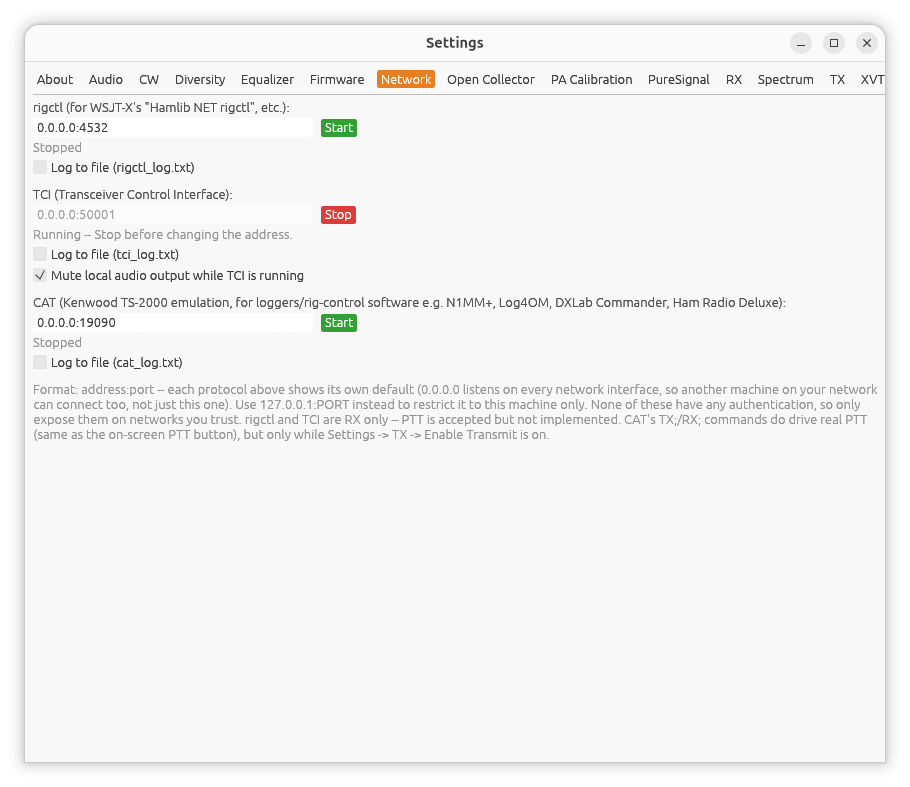
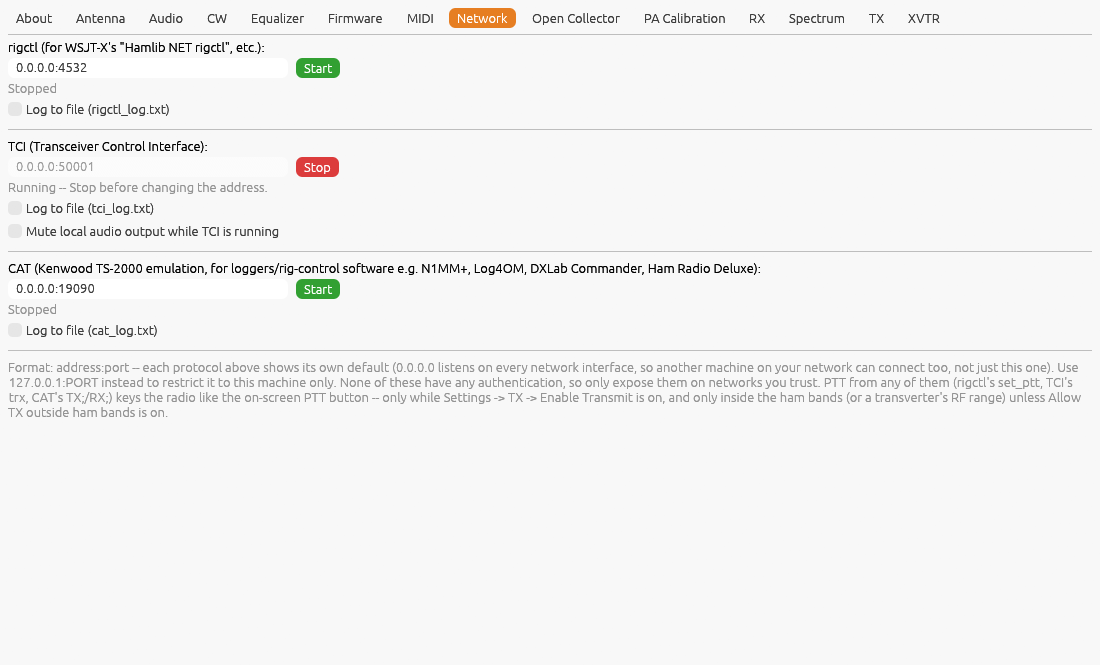
XVTR: scroll to adjust LO Error; manual updates
As requested, Settings -> XVTR's LO Error (Hz) field takes the scroll
wheel: 100 Hz per notch, Alt 10 Hz, Shift 1 kHz (modifiers latched per
wheel event via scroll_tune_input; the Settings page doesn't scroll
while over it). Shared helper scroll_adjust_hz.

Manual:
- Network: PTT commands per server and the TX frequency check;
  frequencies always in the displayed (transverter RF) space; TCI
  reports/sets VFO A and B, dds/if in RF terms; TCI Remote's "OUT OF
  BAND" on microwave bands is its own band plan; servers restore their
  running state on connect (the page said none auto-start).
- Main window: NB/NR menus wording, two sliders in the toggle row.
- XVTR: LO Error scroll steps.
- New screenshots: toggle row (NB/NR menus) and Network tab.

Changed region(s): [[0.0, 0.0, 0.9846, 0.9624], [0.3385, 0.2406, 0.4, 0.3008], [0.3385, 0.1504, 0.4, 0.1805]]

diff --git a/src/main.rs b/src/main.rs
@@ -9486,10 +9486,16 @@ impl eframe::App for HpsdrApp {
                                             {
                                                 settings_changed = true;
                                             }
-                                            if ui
-                                                .add(egui::DragValue::new(&mut xvtr.lo_error_hz))
-                                                .changed()
-                                            {
+                                            let resp = ui.add(egui::DragValue::new(&mut xvtr.lo_error_hz)).on_hover_text(
+                                                "Scroll to adjust -- Alt: 10 Hz, none: 100 Hz, Shift: 1 kHz",
+                                            );
+                                            let scrolled = scroll_adjust_hz(
+                                                ui,
+                                                &resp,
+                                                &mut connected.slider_scroll_accum,
+                                                &mut xvtr.lo_error_hz,
+                                            );
+                                            if resp.changed() || scrolled {
                                                 settings_changed = true;
                                             }
                                             if ui.checkbox(&mut xvtr.disable_pa, "").changed() {
@@ -11769,6 +11775,39 @@ fn scroll_slider_f32_db(
     }
     if changed {
         *gain = 10f32.powf(db / 20.0);
+    }
+    changed
+}
+
+/// Scroll-wheel adjustment of a Hz value while `resp` (its field) is
+/// hovered: 100 Hz per notch, 10 Hz with Alt, 1 kHz with Shift (latched
+/// per wheel event, see scroll_tune_input). Consumes the wheel motion so
+/// the surrounding Settings page doesn't scroll too. Returns true if
+/// `value` changed.
+fn scroll_adjust_hz(ui: &mut egui::Ui, resp: &egui::Response, scroll_accum: &mut f32, value: &mut i64) -> bool {
+    if !resp.hovered() {
+        return false;
+    }
+    let (delta, shift, alt) = scroll_tune_input(ui);
+    ui.input_mut(|i| i.smooth_scroll_delta = egui::Vec2::ZERO);
+    if delta == 0.0 {
+        return false;
+    }
+    const NOTCH: f32 = 100.0;
+    let step: i64 = if alt {
+        10
+    } else if shift {
+        1_000
+    } else {
+        100
+    };
+    *scroll_accum += delta;
+    let mut changed = false;
+    while scroll_accum.abs() >= NOTCH {
+        let sign = scroll_accum.signum();
+        *scroll_accum -= sign * NOTCH;
+        *value += step * sign as i64;
+        changed = true;
     }
     changed
 }

diff --git a/docs/manual/11-settings-network.md b/docs/manual/11-settings-network.md
@@ -13,11 +13,19 @@ would start the server, red when it would stop it. None of the three
 require authentication, so only bind `0.0.0.0` (all interfaces) if you
 trust your local network.
 
-PTT sent through any of these three does drive the radio's real transmit
-(the same `mox` flag as the on-screen **MOX** button and Spacebar
-hold-to-talk), but only while Settings → TX → **Enable Transmit** is on --
-with transmit not armed, a PTT request is accepted (so the client's own
-handshake doesn't fail) but has no receiver on the other end.
+PTT sent through any of these three (rigctl's `set_ptt`, TCI's `trx`,
+CAT's `TX;`/`RX;`) does drive the radio's real transmit (the same `mox`
+flag as the on-screen **MOX** button and Spacebar hold-to-talk), but only
+while Settings → TX → **Enable Transmit** is on -- with transmit not armed,
+a PTT request is accepted (so the client's own handshake doesn't fail) but
+has no receiver on the other end. The same transmit-frequency check as the
+on-screen button applies too: inside the ham bands, or inside the active
+transverter's RF range, unless Settings → TX → **Allow TX outside ham
+bands** is on.
+
+Frequencies are always exchanged in the frequency shown on screen: with a
+[transverter](18-xvtr.md) active, clients see and set its RF frequency
+(e.g. 10489.540 MHz on QO-100), never the radio's IF.
 
 [RIT and XIT](02-main-window.md#transmit-controls) are readable and
 settable through all three servers too, and stay in sync with the
@@ -58,6 +66,12 @@ streaming), both directly and through TCI Remote Compactor.
   actually use).
 - Same **Start**/**Stop**/status/logging behavior as rigctl above (logs to
   `tci_log.txt`).
+- **VFO A and VFO B** are both reported to clients (`vfo:0,0` and
+  `vfo:0,1`) and both can be set from them -- VFO B through its own
+  transverter, the same as typing a frequency into it. The spectrum centre
+  (`dds`) and the offset of the listening frequency from it (`if`) are
+  reported in the same RF terms, so a client's own spectrum display lines
+  up with a transverter band too.
 - **Mute local audio output while TCI is running** -- hpsdr-rs normally
   streams RX audio to both its own local audio device and TCI at the same
   time. If that local device is *also* independently picked up by your TCI
@@ -84,6 +98,10 @@ IP address and the TCI port above (`50001` by default).
 
 *Example of TCI Remote running on an Apple iPad*
 
+On a microwave band such as QO-100, TCI Remote may show **OUT OF BAND**
+over its waterfall. That comes from TCI Remote's own band plan, not from
+hpsdr-rs -- the frequency, spectrum and tuning are all still correct.
+
 ## CAT (Kenwood TS-2000 emulation)
 
 A plain-ASCII, semicolon-terminated command set for logging/rig-control
@@ -106,8 +124,9 @@ named "rigctl" too.
   toggled on/off (`XT`), not set to a specific value -- matches real
   Kenwood TS-2000 behavior, which has no such command either.
 
-None of the three servers auto-start -- start them explicitly here each
-session, or whenever you need them.
+Each server's running state is saved: whichever were running when you
+last disconnected start again automatically the next time you connect to
+the same radio. A server you've stopped stays stopped.
 
 ---
 

diff --git a/docs/manual/02-main-window.md b/docs/manual/02-main-window.md
@@ -261,14 +261,14 @@ being too coarse and the high end too fine on a plain linear scale.
 
 ## Noise/AGC toggles
 
-A row of buttons plus one slider:
+A row of buttons and two sliders:
 
 - **NB** -- click to choose Off, NB or NB2 from a menu (two
   mutually-exclusive noise blanker stages; the threshold both share is
   in Settings → RX). Highlighted while one is on.
-- **NR** -- click to choose Off, NR, NR2 or NNR from a menu (three mutually-exclusive
-  noise reduction algorithms; NNR is WDSP's built-in neural-net noise
-  reduction). NNR has Standard and Premium models (Settings → RX); in
+- **NR** -- click to choose Off, NR, NR2 or NNR from a menu (three
+  mutually-exclusive noise reduction algorithms; NNR is WDSP's built-in
+  neural-net noise reduction). Highlighted while one is on. NNR has Standard and Premium models (Settings → RX); in
   CWL/CWU it switches to WDSP's CW-trained models automatically, since
   the voice models treat CW as noise.
 - **SNB** -- toggles the Spectral Noise Blanker on/off, independently of NB

diff --git a/docs/manual/18-xvtr.md b/docs/manual/18-xvtr.md
@@ -21,7 +21,8 @@ One row per slot, each with:
   `RF = IF + LO Offset + LO Error`.
 - **LO Error** -- a small trim on top of LO Offset, for whatever the real
   LO measures in practice (kept separate so you don't have to recompute the
-  nominal offset every time you touch it).
+  nominal offset every time you touch it). Scroll over it to adjust: 100 Hz
+  per notch, **Alt** 10 Hz, **Shift** 1 kHz.
 - **Disable PA** -- when checked, this radio's internal PA and antenna T/R
   relay are left alone while transmitting on this band, so full PA
   drive/relay switching never gets routed into a transverter's low-level IF
